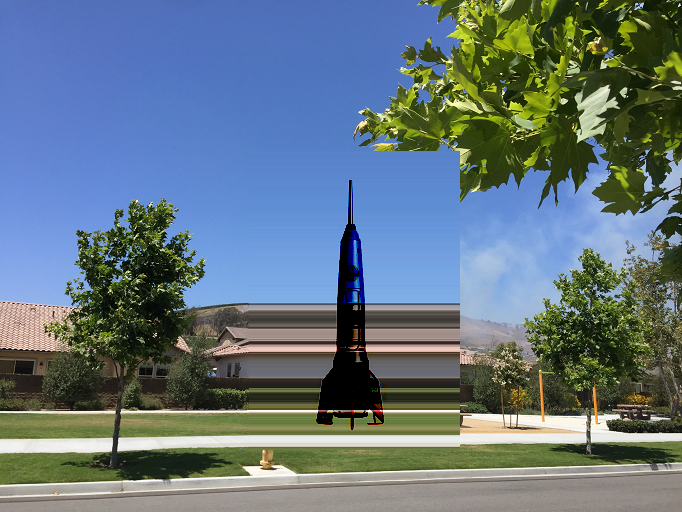
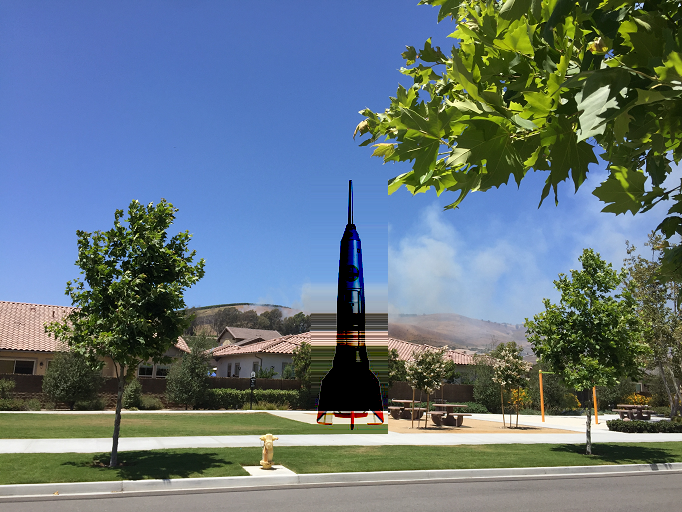
some progress, need matrix solve soon

Changed region(s): [[0.3695, 0.2812, 0.6774, 0.9062]]

diff --git a/Main.cpp b/Main.cpp
@@ -19,10 +19,17 @@ struct SImageInfo
     int m_height = 0;
     int m_channels = 0;
 
-    bool Load(const char *fileName)
+    inline float* GetPixel (int x, int y)
+    {
+        return &m_pixels[y * m_width * m_channels + x * m_channels];
+    }
+
+    bool Load(const char *fileName, int desiredChannels = 3)
     {
         // load image
-        stbi_uc* pixels = stbi_load(fileName, &m_width, &m_height, &m_channels, 3);
+        m_channels = desiredChannels;
+        int channels = 0;
+        stbi_uc* pixels = stbi_load(fileName, &m_width, &m_height, &channels, desiredChannels);
         if (pixels == nullptr)
         {
             printf("Could not load file %s\n", fileName);
@@ -30,7 +37,7 @@ struct SImageInfo
         }
 
         // convert to float and convert from sRGB to linear
-        m_pixels.resize(m_width*m_height * 3);
+        m_pixels.resize(m_width*m_height*m_channels);
         stbi_uc* srcPixel = pixels;
         for (float& pixel : m_pixels)
         {
@@ -50,11 +57,11 @@ struct SRect
     int x1, y1, x2, y2;
 };
 
-bool WriteImage (const char *fileName, int width, int height, std::vector<float>& pixels)
+bool WriteImage (const char *fileName, int width, int height, int numChannels, std::vector<float>& pixels)
 {
     // convert from linear to sRGB, clamp, and convert to uint8.
     std::vector<stbi_uc> outPixels;
-    outPixels.resize(width*height * 3);
+    outPixels.resize(width*height * numChannels);
     float* srcPixel = &pixels[0];
     for (stbi_uc& pixel : outPixels)
     {
@@ -67,7 +74,7 @@ bool WriteImage (const char *fileName, int width, int height, std::vector<float>
         ++srcPixel;
     }
 
-    return stbi_write_png(fileName, width, height, 3, &outPixels[0], 3 * width) != 0;
+    return stbi_write_png(fileName, width, height, numChannels, &outPixels[0], numChannels * width) != 0;
 }
 
 void NaivePaste (const SImageInfo &source, const SImageInfo &dest, int pasteX, int pasteY, const char* fileName)
@@ -120,7 +127,7 @@ void NaivePaste (const SImageInfo &source, const SImageInfo &dest, int pasteX, i
     }
 
     // write the file
-    if (!WriteImage(fileName, dest.m_width, dest.m_height, outPixels))
+    if (!WriteImage(fileName, dest.m_width, dest.m_height, dest.m_channels, outPixels))
         printf(__FUNCTION__ "() error: Could not write %s\n", fileName);
 }
 
@@ -185,11 +192,11 @@ void NaiveGradientPaste (const SImageInfo &source, std::vector<float>& sourceGra
     }
 
     // write the file
-    if (!WriteImage(fileName, dest.m_width, dest.m_height, outPixels))
+    if (!WriteImage(fileName, dest.m_width, dest.m_height, dest.m_channels, outPixels))
         printf(__FUNCTION__ "() error: Could not write %s\n", fileName);
 }
 
-void MakeImageGradient(const SImageInfo& source, std::vector<float>& sourceGradient)
+void MakeImageGradient(const SImageInfo& source, const SImageInfo& mask, std::vector<float>& sourceGradient)
 {
     // allocate space for the gradients
     sourceGradient.resize(source.m_width*source.m_height * 6);
@@ -197,32 +204,41 @@ void MakeImageGradient(const SImageInfo& source, std::vector<float>& sourceGradi
 
     // make the gradients!
     const float* sourcePixel = &source.m_pixels[0];
-    const float* sourcePixelNextRow = sourcePixel + source.m_width * 3;
+    const float* sourcePixelNextRow = sourcePixel + source.m_width * source.m_channels;
+    const float* sourceMask = &mask.m_pixels[0];
 
     float* destPixel = &sourceGradient[0];
     for (int y = 0; y < source.m_height-1; ++y)
     {
         for (int x = 0; x < source.m_width-1; ++x)
         {
-            // calculate RGB dfdx
-            destPixel[0] = sourcePixel[3] - sourcePixel[0];
-            destPixel[1] = sourcePixel[4] - sourcePixel[1];
-            destPixel[2] = sourcePixel[5] - sourcePixel[2];
+            if (*sourceMask > 0.0f)
+            {
+                // calculate RGB dfdx
+                destPixel[0] = sourcePixel[3] - sourcePixel[0];
+                destPixel[1] = sourcePixel[4] - sourcePixel[1];
+                destPixel[2] = sourcePixel[5] - sourcePixel[2];
 
-            // calculate RGB dfdy
-            destPixel[3] = sourcePixelNextRow[0] - sourcePixel[0];
-            destPixel[4] = sourcePixelNextRow[1] - sourcePixel[1];
-            destPixel[5] = sourcePixelNextRow[2] - sourcePixel[2];
+                // calculate RGB dfdy
+                destPixel[3] = sourcePixelNextRow[0] - sourcePixel[0];
+                destPixel[4] = sourcePixelNextRow[1] - sourcePixel[1];
+                destPixel[5] = sourcePixelNextRow[2] - sourcePixel[2];
+            }
+            else
+            {
+                memset(destPixel, 0, sizeof(float) * 6);
+            }
 
             // move to the next pixels
             sourcePixel += 3;
             sourcePixelNextRow += 3;
+            sourceMask += 1;
             destPixel += 6;
         }
     }
 }
 
-void SaveImageGradient(const SImageInfo& source, const std::vector<float>& sourceGradient, const char* fileName)
+void SaveImageGradient(const SImageInfo& source, const SImageInfo& mask, const std::vector<float>& sourceGradient, const char* fileName)
 {
     // Save the gradient as a side by side double wide image.
     // The left side is the x axis partial derivatives, the right side is the y axis.
@@ -231,6 +247,7 @@ void SaveImageGradient(const SImageInfo& source, const std::vector<float>& sourc
 
     const float* sourcePixel0 = &source.m_pixels[0];
     const float* sourcePixel1 = &sourceGradient[0];
+    const float* sourceMask = &mask.m_pixels[0];
 
     for (int y = 0; y < source.m_height; ++y)
     {
@@ -239,17 +256,26 @@ void SaveImageGradient(const SImageInfo& source, const std::vector<float>& sourc
         float* destPixel2 = &outPixels[y*source.m_width * 9 + source.m_width * 6];
         for (int x = 0; x < source.m_width; ++x)
         {
-            destPixel0[0] = sourcePixel0[0];
-            destPixel0[1] = sourcePixel0[1];
-            destPixel0[2] = sourcePixel0[2];
+            if (*sourceMask > 0.0f)
+            {
+                destPixel0[0] = sourcePixel0[0];
+                destPixel0[1] = sourcePixel0[1];
+                destPixel0[2] = sourcePixel0[2];
 
-            destPixel1[0] = (sourcePixel1[0] * 0.5f) + 0.5f;
-            destPixel1[1] = (sourcePixel1[1] * 0.5f) + 0.5f;
-            destPixel1[2] = (sourcePixel1[2] * 0.5f) + 0.5f;
+                destPixel1[0] = (sourcePixel1[0] * 0.5f) + 0.5f;
+                destPixel1[1] = (sourcePixel1[1] * 0.5f) + 0.5f;
+                destPixel1[2] = (sourcePixel1[2] * 0.5f) + 0.5f;
 
-            destPixel2[0] = (sourcePixel1[3] * 0.5f) + 0.5f;
-            destPixel2[1] = (sourcePixel1[4] * 0.5f) + 0.5f;
-            destPixel2[2] = (sourcePixel1[5] * 0.5f) + 0.5f;
+                destPixel2[0] = (sourcePixel1[3] * 0.5f) + 0.5f;
+                destPixel2[1] = (sourcePixel1[4] * 0.5f) + 0.5f;
+                destPixel2[2] = (sourcePixel1[5] * 0.5f) + 0.5f;
+            }
+            else
+            {
+                memset(destPixel0, 0, sizeof(float) * 3);
+                memset(destPixel1, 0, sizeof(float) * 3);
+                memset(destPixel2, 0, sizeof(float) * 3);
+            }
 
             // move to the next pixels
             destPixel0 += 3;
@@ -257,46 +283,123 @@ void SaveImageGradient(const SImageInfo& source, const std::vector<float>& sourc
             destPixel2 += 3;
             sourcePixel0 += 3;
             sourcePixel1 += 6;
+            sourceMask += 1;
         }
     }
 
     // save the file
-    if (!WriteImage(fileName, source.m_width*3, source.m_height, outPixels))
+    if (!WriteImage(fileName, source.m_width*3, source.m_height, source.m_channels, outPixels))
         printf(__FUNCTION__ "() error: Could not write %s\n", fileName);
+}
+
+void Trim(SImageInfo& source, SImageInfo& mask, int& pasteX, int& pasteY)
+{
+    // find the minimum bounding box based on the mask
+    SRect bb;
+    {
+        bb.x1 = mask.m_width;
+        bb.y1 = mask.m_height;
+        bb.x2 = 0;
+        bb.y2 = 0;
+        float *pixel = &mask.m_pixels[0];
+        for (int y = 0; y < mask.m_height; ++y)
+        {
+            for (int x = 0; x < mask.m_width; ++x)
+            {
+                if (*pixel > 0.0f)
+                {
+                    bb.x1 = std::min(x, bb.x1);
+                    bb.y1 = std::min(y, bb.y1);
+                    bb.x2 = std::max(x, bb.x2);
+                    bb.y2 = std::max(y, bb.y2);
+                }
+                pixel++;
+            }
+        }
+    }
+
+    // make a trimmed mask
+    {
+        SImageInfo newMask;
+        newMask.m_channels = mask.m_channels;
+        newMask.m_width = bb.x2 - bb.x1;
+        newMask.m_height = bb.y2 - bb.y1;
+        newMask.m_pixels.resize(newMask.m_width*newMask.m_height*newMask.m_channels);
+
+        for (int y = 0; y < newMask.m_height; ++y)
+        {
+            float* sourcePixel = mask.GetPixel(bb.x1, bb.y1 + y);
+            float* destPixel = newMask.GetPixel(0, y);
+            memcpy(destPixel, sourcePixel, sizeof(float)*newMask.m_width*newMask.m_channels);
+        }
+
+        mask = newMask;
+    }
+
+    // make a trimmed source image
+    {
+        SImageInfo newSource;
+        newSource.m_channels = source.m_channels;
+        newSource.m_width = bb.x2 - bb.x1;
+        newSource.m_height = bb.y2 - bb.y1;
+        newSource.m_pixels.resize(newSource.m_width*newSource.m_height*newSource.m_channels);
+
+        for (int y = 0; y < newSource.m_height; ++y)
+        {
+            float* sourcePixel = source.GetPixel(bb.x1, bb.y1 + y);
+            float* destPixel = newSource.GetPixel(0, y);
+            memcpy(destPixel, sourcePixel, sizeof(float)*newSource.m_width*newSource.m_channels);
+        }
+
+        source = newSource;
+    }
+
+    // adjust the paste location
+    pasteX += bb.x1;
+    pasteY += bb.y1;
 }
 
 int main(int argc, char** argv)
 {
-    SImageInfo source, dest, output;
+    SImageInfo source, mask, dest, output;
     int pasteX, pasteY;
 
     // get parameters and load images
     {
-        if (argc < 5)
+        if (argc < 6)
         {
-            printf("usage: <source> <dest> <x> <y>\n");
+            printf("usage: <source> <mask> <dest> <x> <y>\n");
             return 1;
         }
 
-        if (!source.Load(argv[1]) || !dest.Load(argv[2]))
+        if (!source.Load(argv[1]) || !mask.Load(argv[2], 1) || !dest.Load(argv[3]))
         {
             return 2;
         }
 
-        if (!sscanf(argv[3], "%i", &pasteX) || !sscanf(argv[4], "%i", &pasteY))
+        if (!sscanf(argv[4], "%i", &pasteX) || !sscanf(argv[5], "%i", &pasteY))
         {
             printf("could not read width or height\n");
             return 3;
         }
+
+        if (source.m_width != mask.m_width || source.m_height != mask.m_height)
+        {
+            printf("Source and mask must be same dimensions\n");
+            return 4;
+        }
     }
+
+    // Trim the source and mask to a bounding rectangle
+    Trim(source, mask, pasteX, pasteY);
 
     // naive paste
     NaivePaste(source, dest, pasteX, pasteY, "out_paste_naive.png");
 
     // make the source image gradient and save it
     std::vector<float> sourceGradient;
-    MakeImageGradient(source, sourceGradient);
-    SaveImageGradient(source, sourceGradient, "out_gradient.png");
+    MakeImageGradient(source, mask, sourceGradient);
+    SaveImageGradient(source, mask, sourceGradient, "out_gradient.png");
 
     // naive gradient paste
     NaiveGradientPaste(source, sourceGradient, dest, pasteX, pasteY, "out_paste_naivegrad.png");
@@ -312,26 +415,12 @@ TODO:
 
 ? try alpha fading the edges of the image in naive paste to hide the discontinuity?
 
-* use alpha channel as mask.
+* clamp colors
+ * could try to put constraints to not clamp in solve!
 
-* work in linear space
-
-* clamp colors i guess
-
-* the partial derivatives add too much i think since they have a full sized delta on X and Y axis. Do i need to chop it in half or something maybe?
- * i think the real issue is they are just constraints that need to be obeyed.
-
-* i think the mask really will be needed. the paste destroys the background!
-
-
-? do we need a mask texture that's the same size as source?
-- command line for source, dest, dest position. maybe a source mask too?
-- solve with least squares if possible?
-- save result
+* there is no such thing as a naive gradient paste. you have a 2 axis constraint :/
 
 - need some demo image(s) for blog post
-- show without the least squares fitting part
-- and show a naive paste!
 
 
 BLOG:
@@ -339,12 +428,12 @@ BLOG:
 - and link to stb
 - https://erkaman.github.io/posts/poisson_blending.html
 - http://cs.brown.edu/courses/cs129/results/proj2/taox/
-- link to least squares post too
+- link to least squares post too (erm... gauss elimination)
 
 - show resulting image, and also the one w/o least squares, and a naive paste too
 
 ? i wonder if this could help at all with style transfer? it would for color changes but not for feature changes.
 
-* paste the rocket at  250, 150
+* rocket.png rocketmask.png scenery.png 250 150
 
 */
